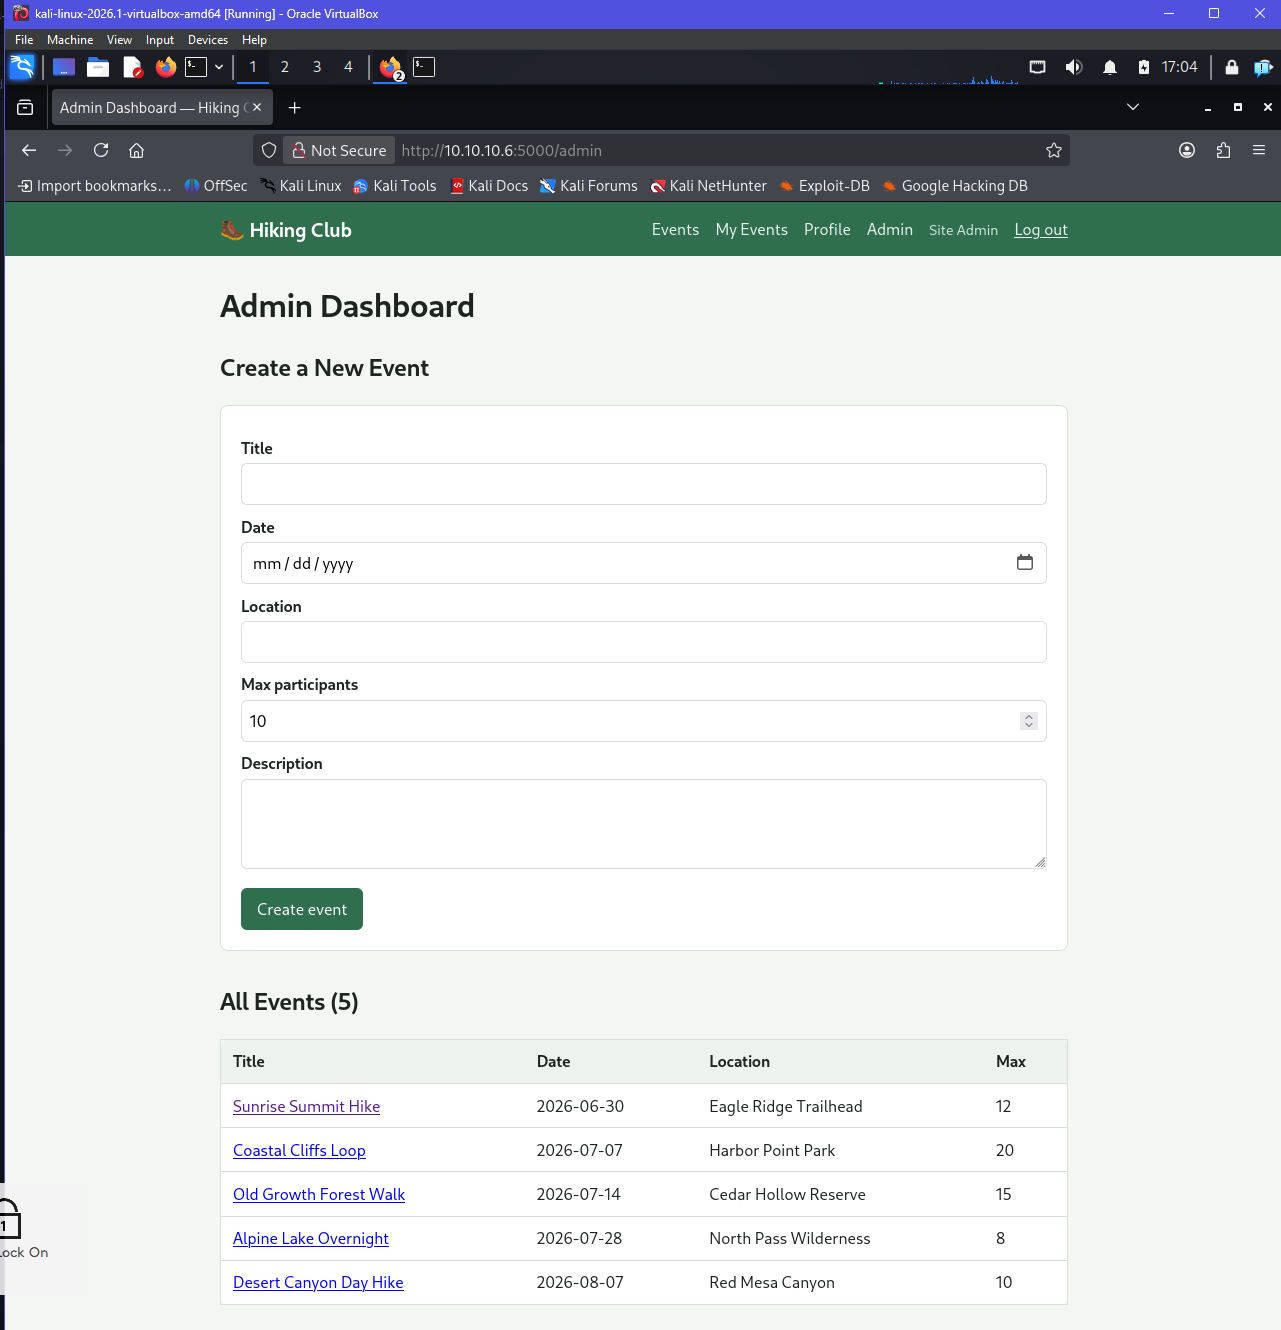
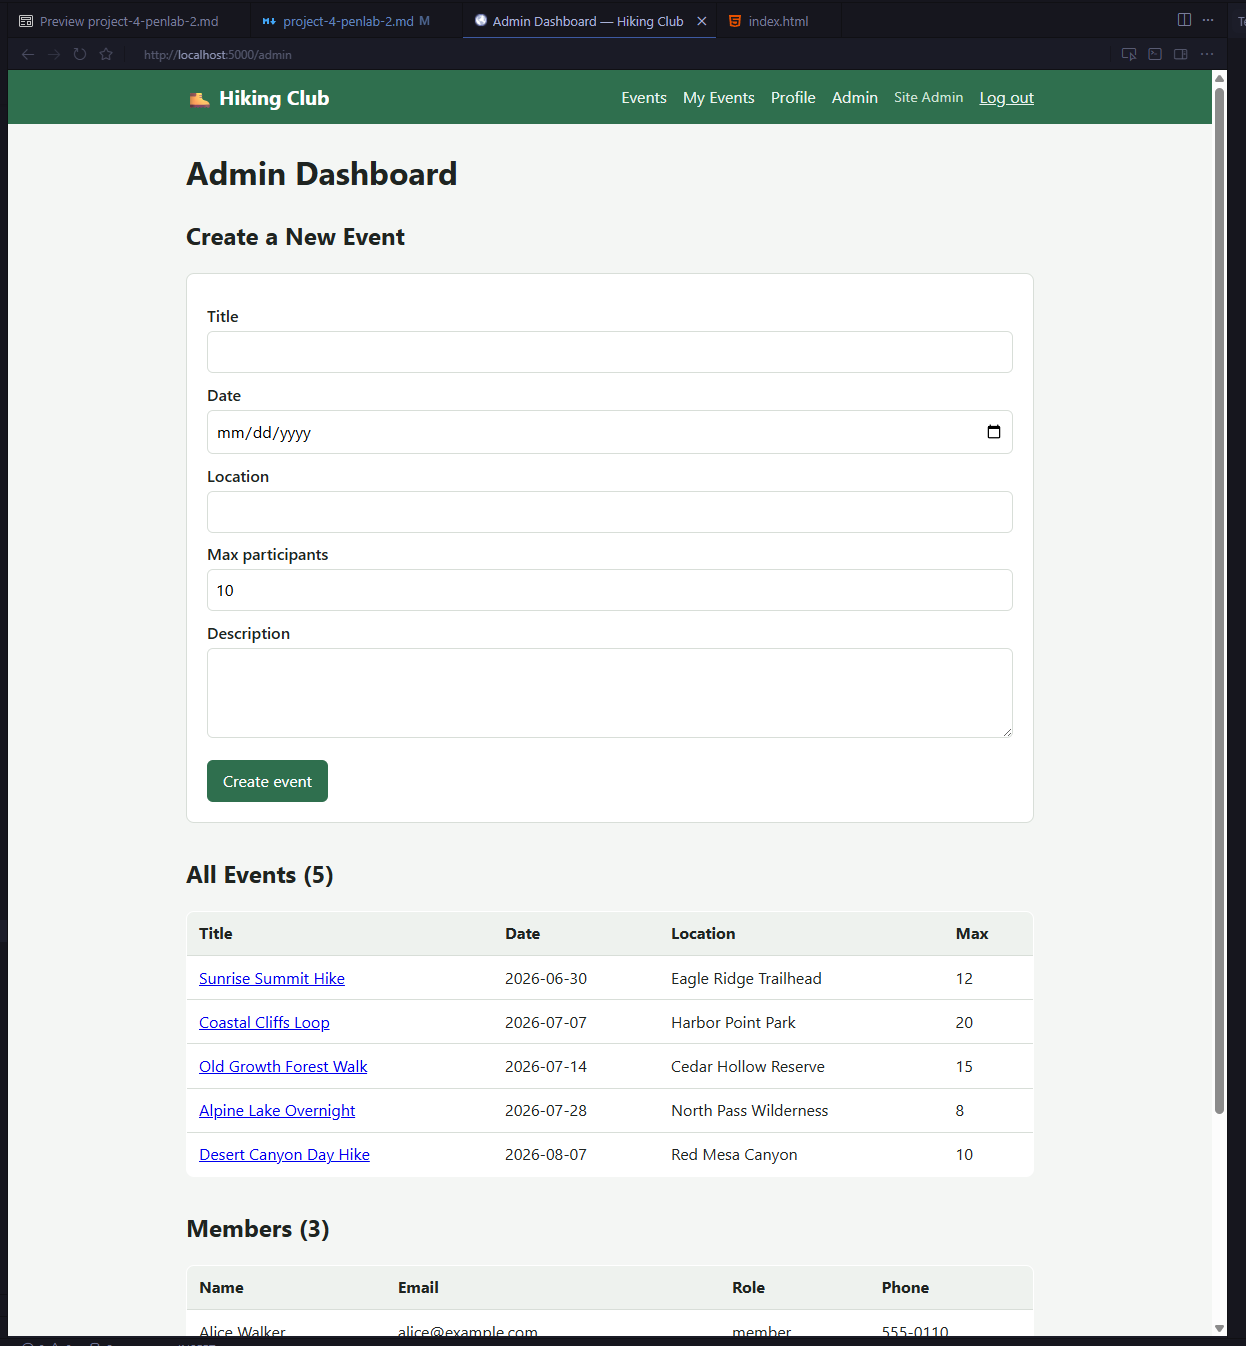
Update project images and modify markdown documentation to reflect local application access, enhancing clarity for the Project 4 overview.

diff --git a/assignments/weekly-projects/project-4-penlab-2.md b/assignments/weekly-projects/project-4-penlab-2.md
@@ -100,8 +100,8 @@ real security posture of a from-scratch build.
 We exercised every route and confirmed server-side authorization behaves as
 designed: protected routes redirect guests to the login page (HTTP 302), a logged-in
 **member** is forbidden (HTTP 403) from the admin dashboard, and the **admin**
-reaches it (HTTP 200). The screenshots below show the application running, viewed
-from the Kali browser against the deployed instance at `http://10.10.10.6:5000`.
+reaches it (HTTP 200). The screenshots below show the application running **locally**
+at `http://localhost:5000` (the same build later deployed to the lab VM in Part 3).
 
 **Screen Shot 1 — Public home page (upcoming events)**
 
@@ -115,7 +115,7 @@ from the Kali browser against the deployed instance at `http://10.10.10.6:5000`.
 ![Screen Shot 2: Login page](../images/project-4-app-login.png)
 
 > Shows the `/login` form (email + password). The browser address bar confirms the
-> app is being reached at `http://10.10.10.6:5000/login`.
+> app is running locally at `http://localhost:5000/login`.
 
 **Screen Shot 3 — Admin dashboard (logged in as admin)**
 
